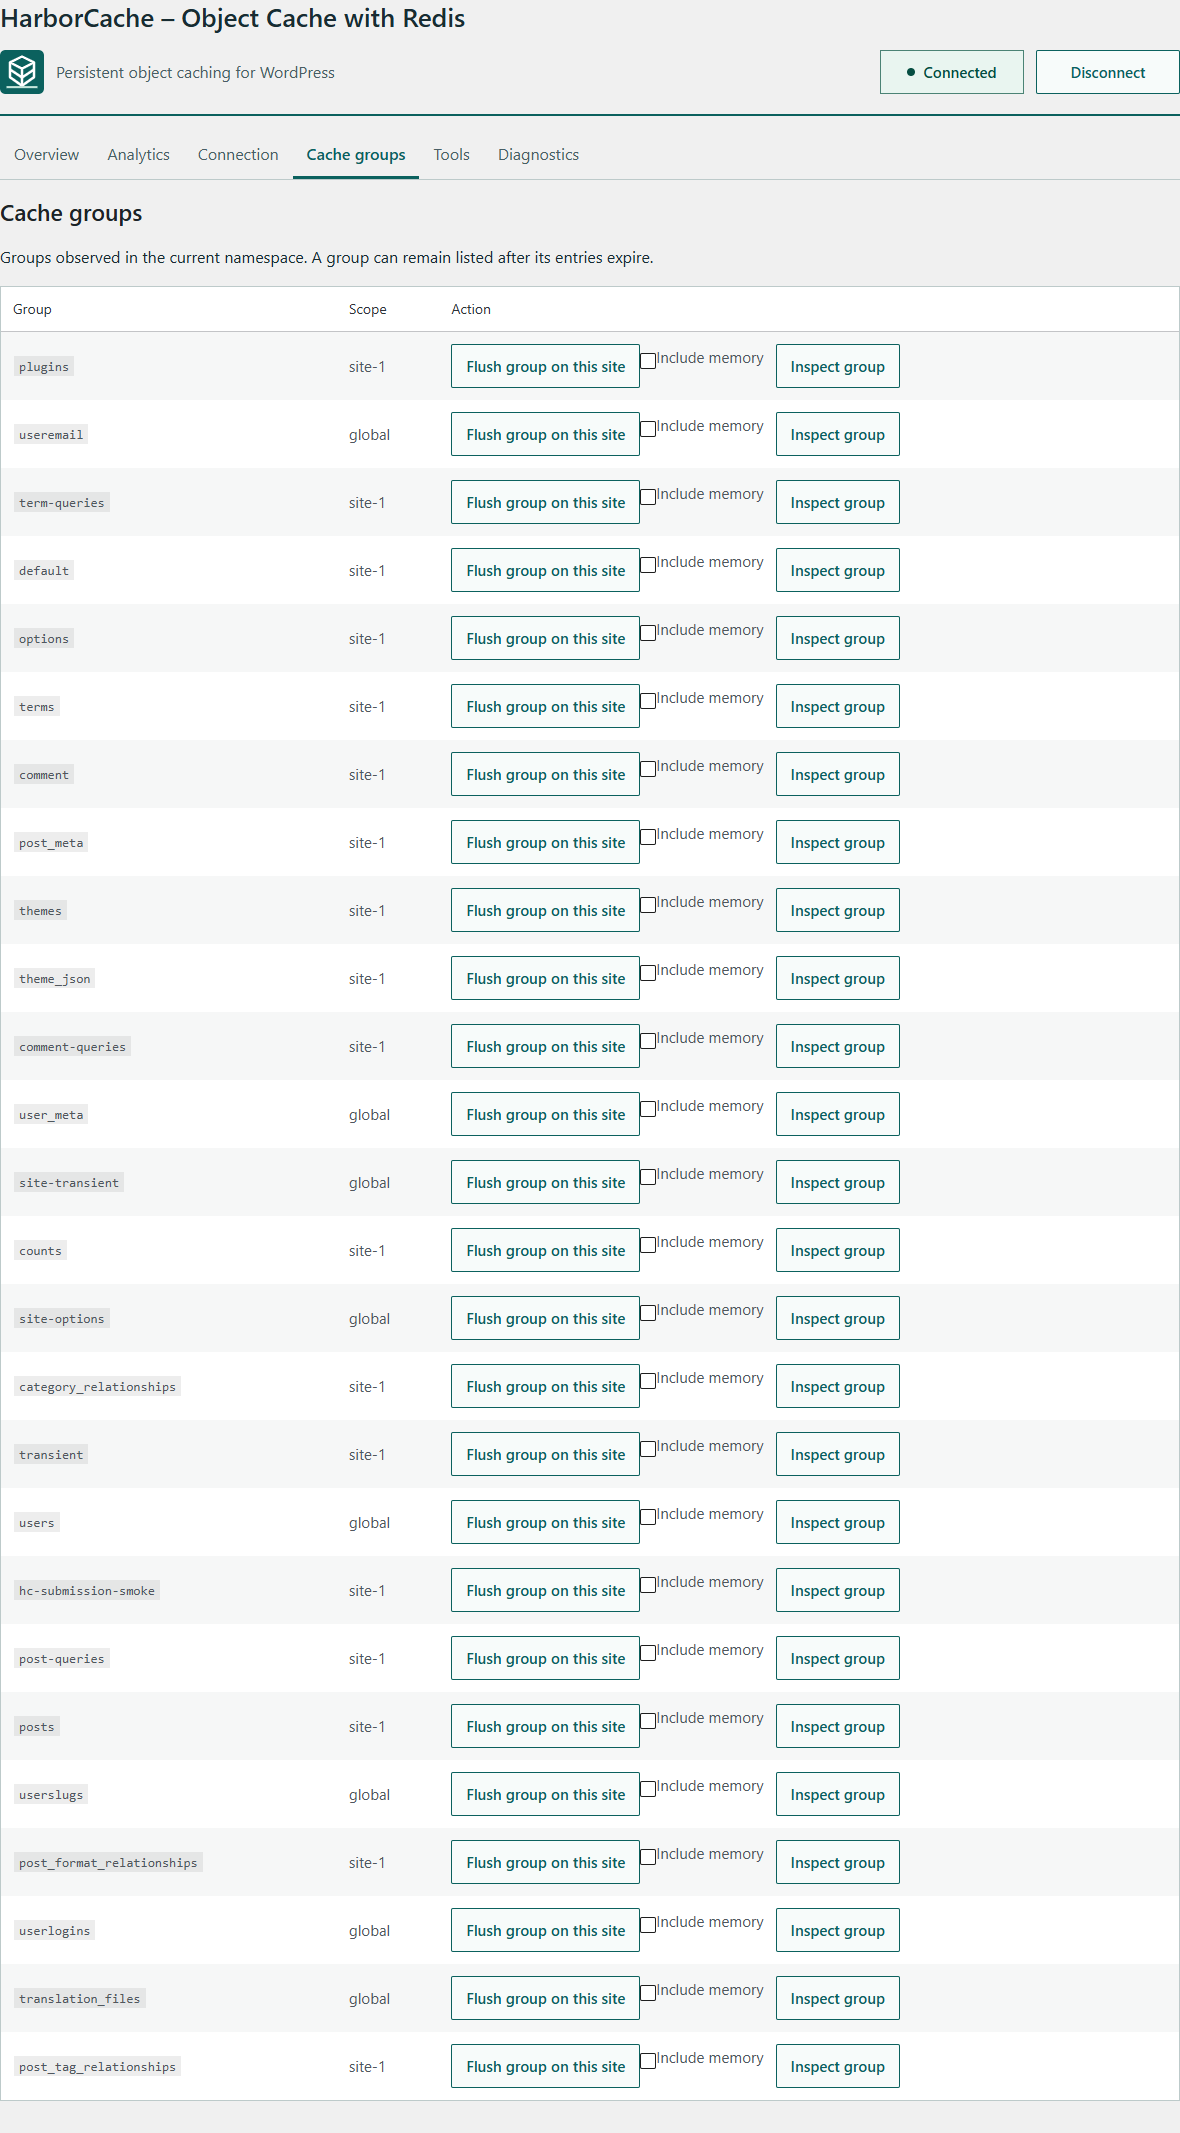
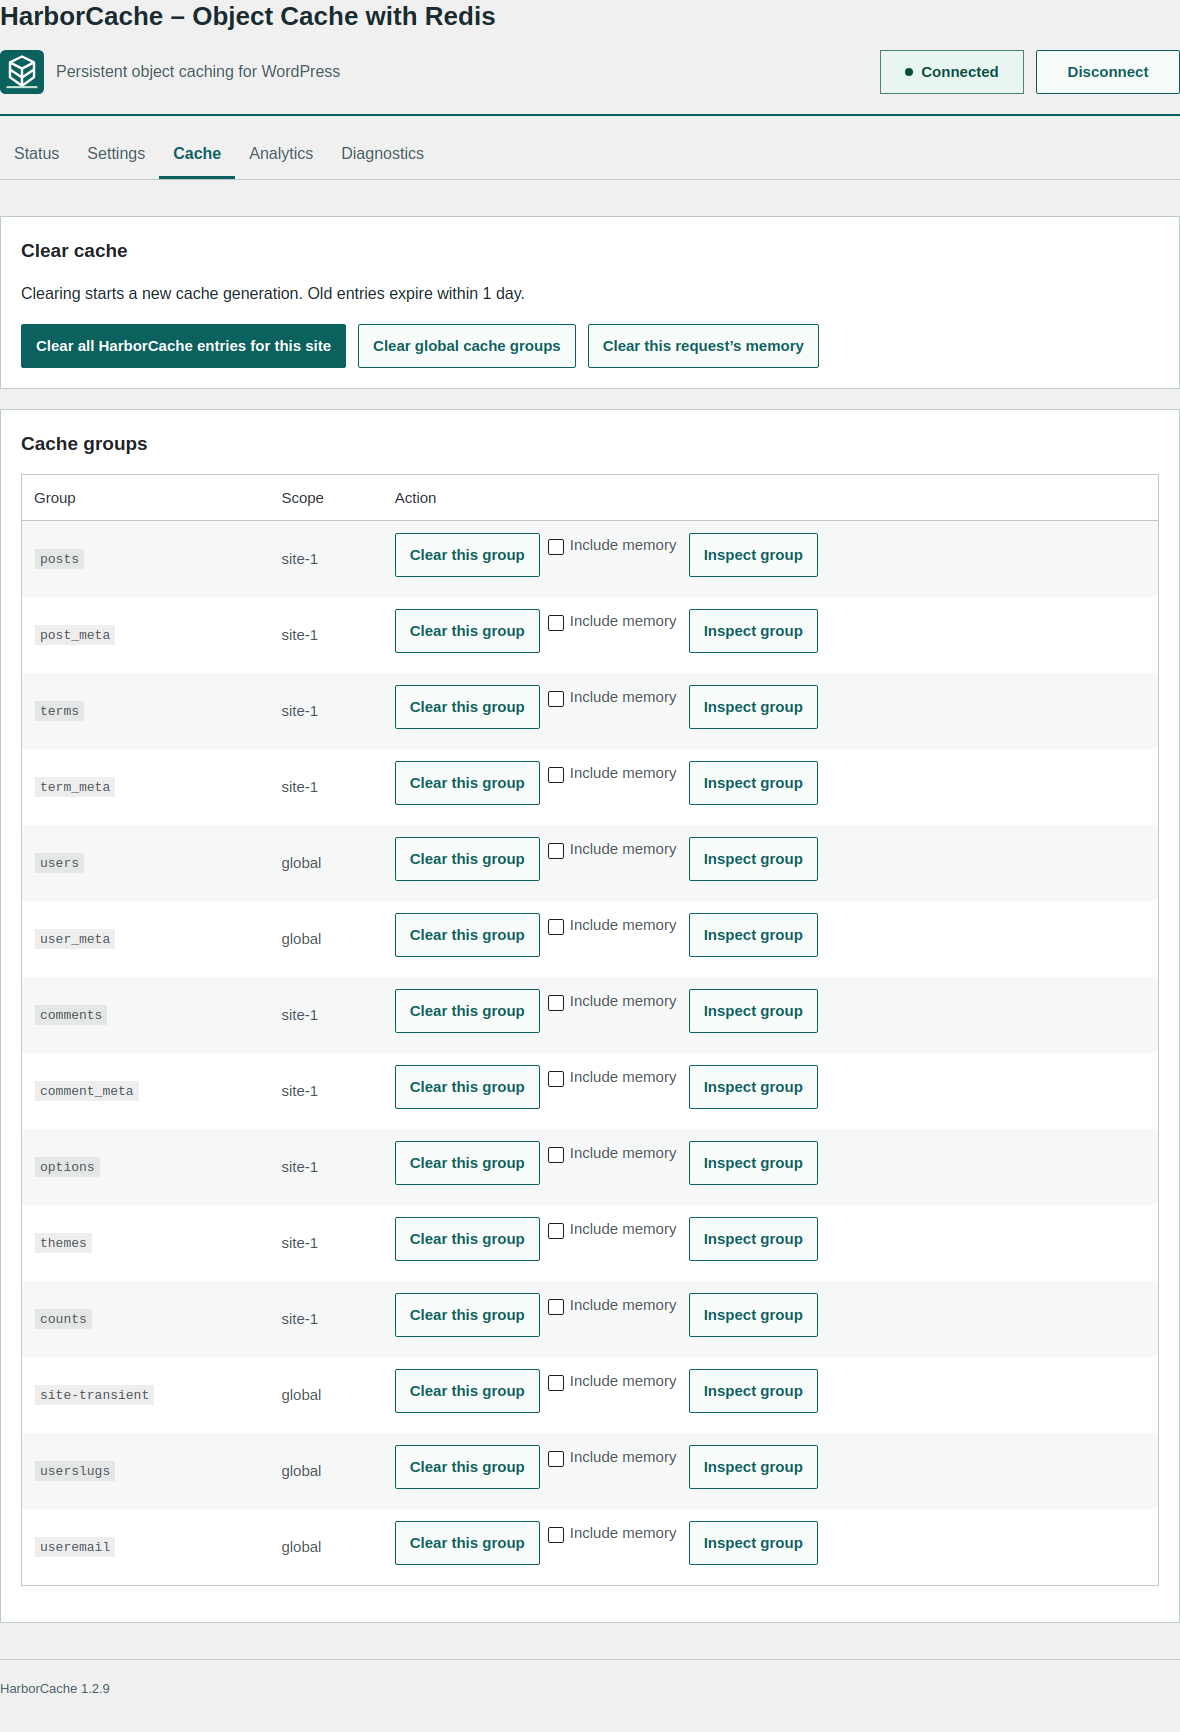
Replace the listing screenshots with 1.2.9 captures

diff --git a/media/README.md b/media/README.md
@@ -1,5 +1,9 @@
 # HarborCache media
 
-HarborCache interface screenshots were captured on 2026-10-14 from a running local WordPress test site using the 1.2.0 build. Screenshots 1–6 show Overview, Analytics, Connection, Groups, Tools and Diagnostics; screenshot 7 shows the dashboard widget. Mobile screenshots show Connection and the widget at 375px. The settings-page version footer is hidden in the captures, and no plugin version is visible in the images. Chart history contains local demonstration samples. These images are not production measurements or customer data. Capture details are in screenshots.json.
+HarborCache interface screenshots were captured on 2026-10-28 from the exact `harborcache-1.2.9.zip` release running in GitHub Actions: WordPress 7.1.3, PHP 8.3.36, PhpRedis 6.3.0, Redis 7.4.12 and MySQL 8.0. The capture job is `.github/workflows/screenshots.yml`; it installs WordPress, activates the plugin, installs the owned drop-in, seeds the fixture, drives a headless Chromium session and uploads the PNGs. The capture run is linked from `screenshots.json`.
+
+Screenshots 1 to 7 show Status, Analytics, Settings, Cache, Diagnostics, the expanded raw report and the dashboard widget. The two mobile files show Settings and the widget at a 375px viewport. Desktop captures clip the plugin panel (`#harborcache`) at its 1180px maximum width; the WordPress admin chrome is outside the frame. The plugin version is visible in each panel footer.
+
+The analytics chart and sample table use demonstration history seeded into the disposable fixture so the nine screens have data to show; the images label the sampling rate and every other value (connection state, client and server versions, cache groups, entry counts, Redis timing, request table) comes from the live Redis connection. The dataset is not a production measurement, a benchmark or customer data.
 
 Original logos, icons, favicon, banners and social artwork use teal #0b615e and ink #172b32. Media is separate from the installable plugin package. Original HarborCache media: GPL-2.0-or-later, Shahid Irfan.
